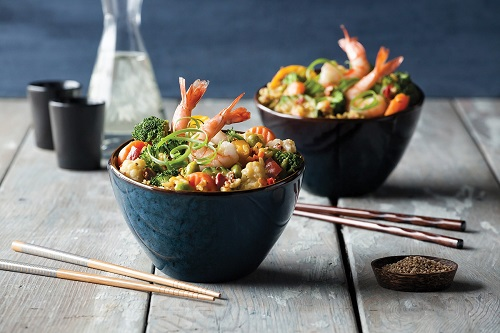
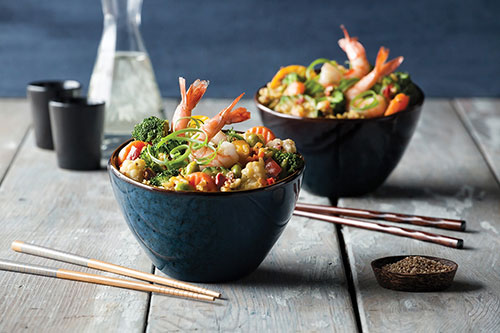
added thumbs for all images for performance

diff --git a/index.html b/index.html
@@ -217,7 +217,7 @@
                         <div class="card" style="height:100%; width:100%;" ng-class="{'trend': !recipe.name}">
                           <a ng-click="vm.blockEmptyTarget(recipe, $event)" href="pdf/{{recipe.pdf}}" target="_blank" title="{{recipe.name}}">
                             <div ng-class="{'hovereffect': recipe.name}">
-                              <img class="card-img" ng-src="img/recipes/{{recipe.image}}" alt="{{recipe.name}}" />
+                              <img class="card-img" ng-src="img/recipes/{{recipe.thumbnail}}" alt="{{recipe.name}}" />
                               <div class="overlay">
                                 <div class="inner">
                                   <p>
